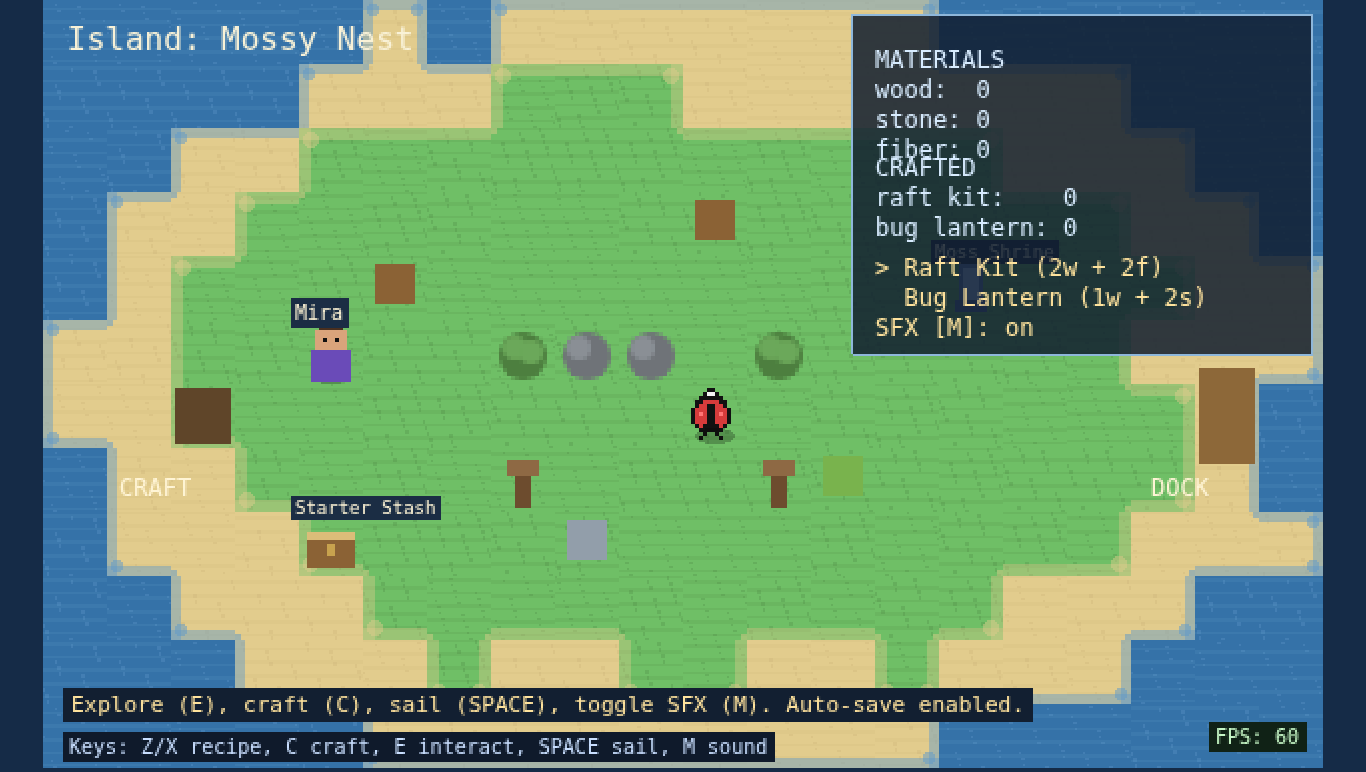
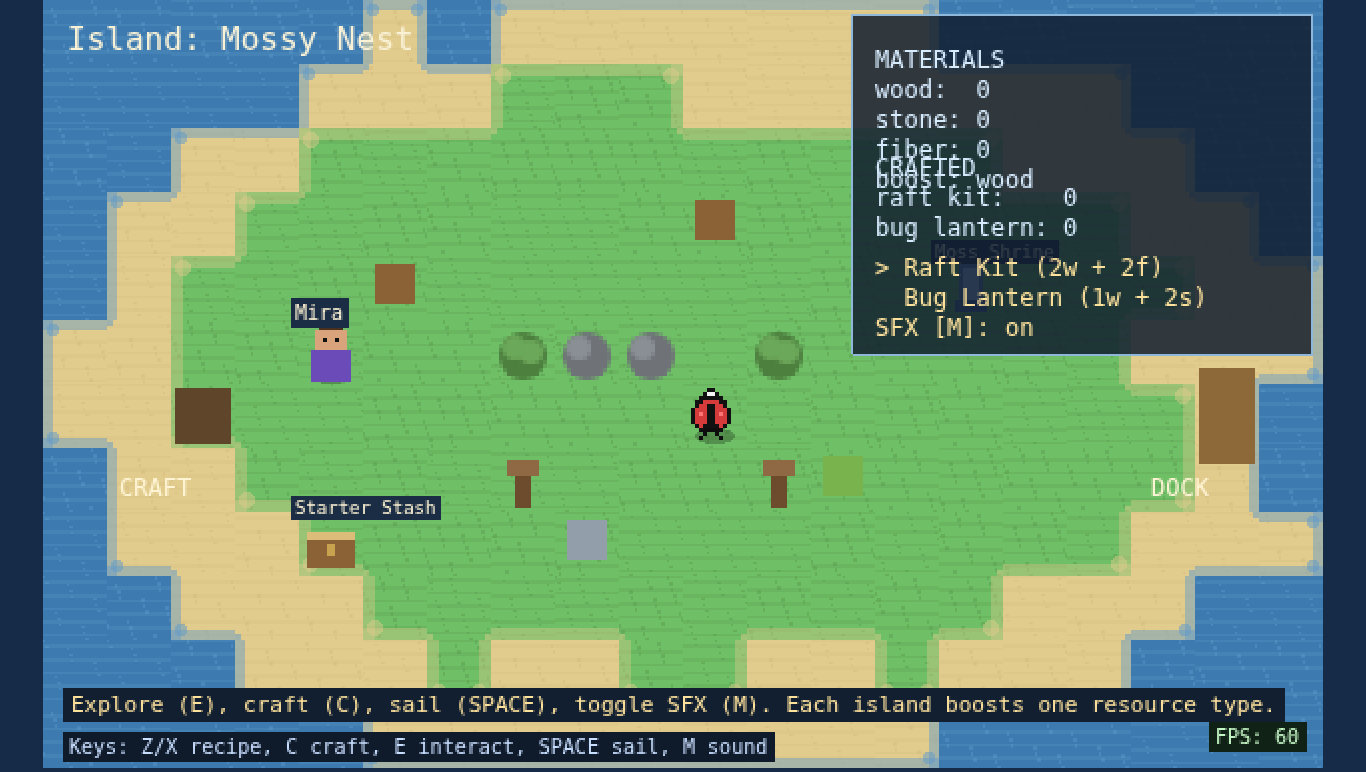
Tune progression with island resource bonuses and respawns

Changed region(s): [[0.5534, 0.8705, 0.9531, 0.9326], [0.6457, 0.2176, 0.7687, 0.2487]]

diff --git a/src/main.ts b/src/main.ts
@@ -10,6 +10,7 @@ type ResourceNode = {
   type: ResourceType
   sprite: Phaser.Physics.Arcade.Sprite
   harvested: boolean
+  respawnAt: number
 }
 
 type ObstacleDef = {
@@ -298,11 +299,12 @@ class AdventureScene extends Phaser.Scene {
       window.addEventListener('beforeunload', () => this.saveNow())
     }
 
-    this.setStatus('Explore (E), craft (C), sail (SPACE), toggle SFX (M). Auto-save enabled.')
+    this.setStatus('Explore (E), craft (C), sail (SPACE), toggle SFX (M). Each island boosts one resource type.')
   }
 
   update() {
     this.movePlayer()
+    this.tickResourceRespawns()
 
     this.fpsTick++
     if (this.fpsTick % 12 === 0) {
@@ -316,7 +318,8 @@ class AdventureScene extends Phaser.Scene {
     if ((Phaser.Input.Keyboard.JustDown(this.travelKey) || this.consumeTouchAction('travel')) && this.isNear(this.dock, 34)) {
       const next = (this.islandIndex + 1) % this.islands.length
       this.loadIsland(next)
-      this.setStatus(`Sailed to ${this.islands[next].name}.`)
+      const focus = this.islandFocusResource(next)
+      this.setStatus(`Sailed to ${this.islands[next].name}. Bonus chance on ${focus}.`)
       this.playSfx([220, 294, 392], 0.05, 0.08, 'triangle')
       this.saveNow()
     }
@@ -948,6 +951,35 @@ class AdventureScene extends Phaser.Scene {
     return { found, total: this.questRelicKeys.length }
   }
 
+  private islandFocusResource(index: number): ResourceType {
+    return (['wood', 'stone', 'fiber'] as ResourceType[])[index % 3]
+  }
+
+  private islandRespawnMs(index: number) {
+    return [15000, 18000, 12000][index % 3]
+  }
+
+  private islandBonusChance(index: number) {
+    return [0.34, 0.4, 0.46][index % 3]
+  }
+
+  private tickResourceRespawns() {
+    const now = this.time.now
+    this.nodes.forEach((node) => {
+      if (!node.harvested || now < node.respawnAt) return
+      node.harvested = false
+      node.respawnAt = 0
+      node.sprite.enableBody(false, node.sprite.x, node.sprite.y, true, true)
+      node.sprite.setAlpha(0)
+      this.tweens.add({
+        targets: node.sprite,
+        alpha: 1,
+        duration: 220,
+        ease: 'Sine.easeOut',
+      })
+    })
+  }
+
   private loadIsland(index: number) {
     this.islandIndex = index
     this.clearMapTiles()
@@ -985,7 +1017,7 @@ class AdventureScene extends Phaser.Scene {
       sprite.setScale(2)
       sprite.setImmovable(true)
       sprite.body?.setAllowGravity(false)
-      this.nodes.push({ type: res.type, sprite, harvested: false })
+      this.nodes.push({ type: res.type, sprite, harvested: false, respawnAt: 0 })
       this.solidColliders.push(this.physics.add.collider(this.player, sprite))
 
       this.tweens.add({
@@ -1334,7 +1366,12 @@ class AdventureScene extends Phaser.Scene {
 
     node.harvested = true
     node.sprite.disableBody(true, true)
-    this.inventory[node.type] += 1
+
+    const focusResource = this.islandFocusResource(this.islandIndex)
+    const bonusChance = this.islandBonusChance(this.islandIndex)
+    const gained = node.type === focusResource && Math.random() < bonusChance ? 2 : 1
+    this.inventory[node.type] += gained
+    node.respawnAt = this.time.now + this.islandRespawnMs(this.islandIndex) + Phaser.Math.Between(-1300, 1300)
 
     const spark = this.trackWorld(this.add.circle(node.sprite.x, node.sprite.y - 8, 4, 0xfff2a2, 0.9).setDepth(40))
     this.tweens.add({
@@ -1346,7 +1383,7 @@ class AdventureScene extends Phaser.Scene {
       onComplete: () => spark.destroy(),
     })
 
-    this.setStatus(`Collected ${node.type}.`)
+    this.setStatus(`Collected ${node.type}${gained > 1 ? ' x2 (island bonus)' : ''}.`)
     this.playSfx([440, 660], 0.045, 0.06, 'square')
     this.updateHud()
     this.saveNow()
@@ -1386,11 +1423,13 @@ class AdventureScene extends Phaser.Scene {
         : ''
     this.islandLabel.setText(`Island: ${island.name}${questTag}`)
 
+    const focus = this.islandFocusResource(this.islandIndex)
     this.materialText.setText([
       `MATERIALS`,
       `wood:  ${this.inventory.wood}`,
       `stone: ${this.inventory.stone}`,
       `fiber: ${this.inventory.fiber}`,
+      `boost: ${focus}`,
     ])
 
     this.craftedText.setText([
